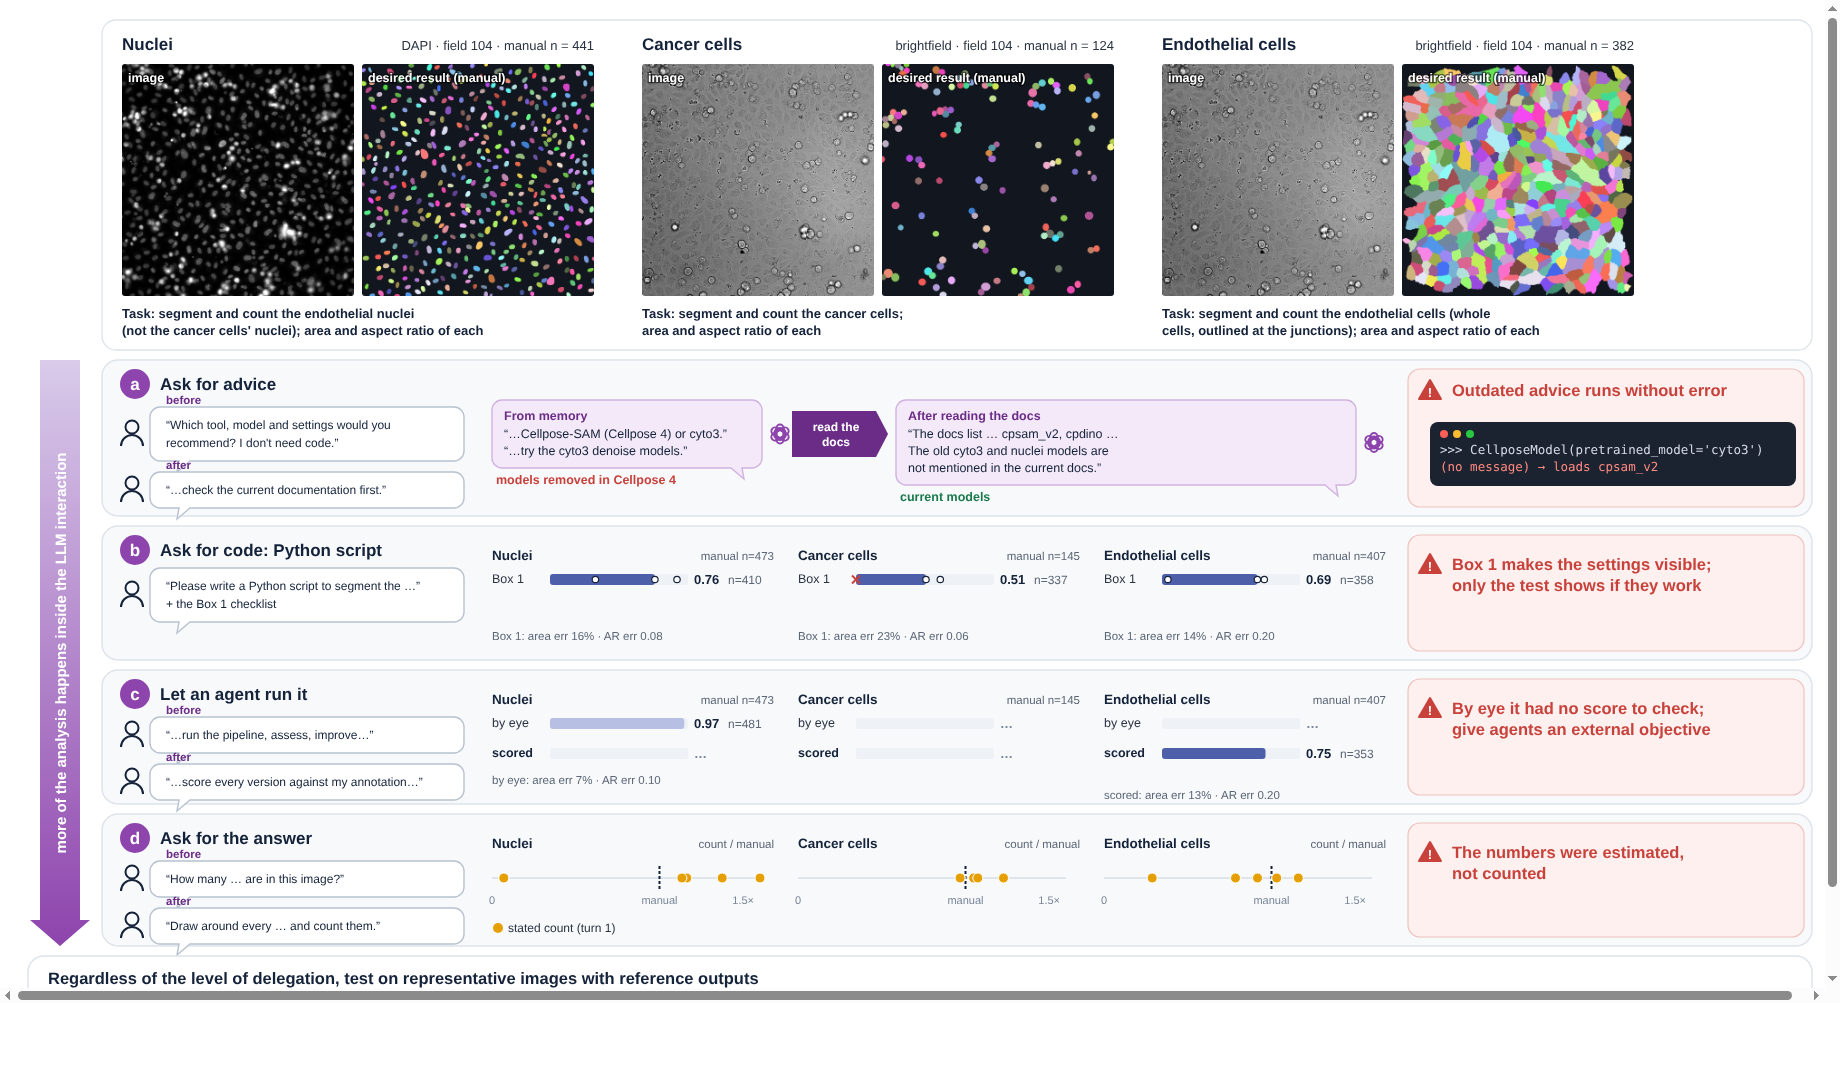
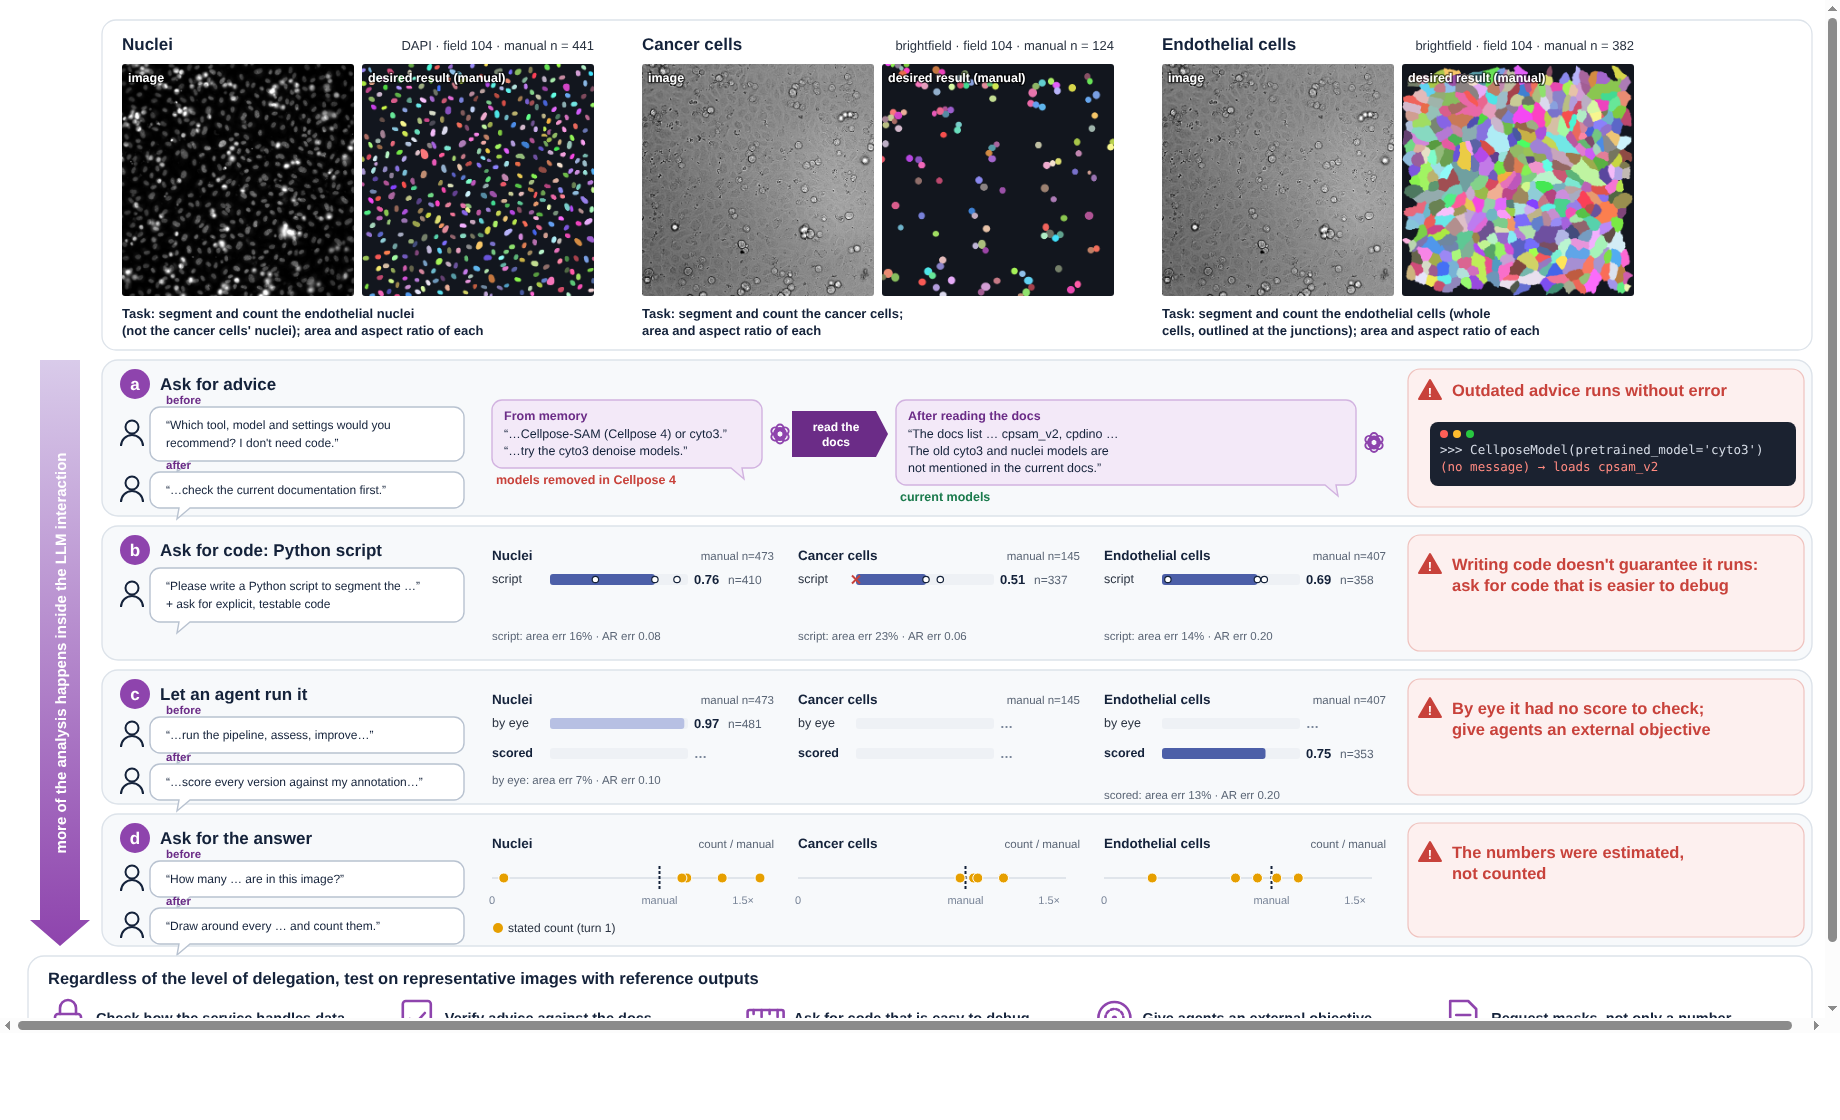
fig3: Box 1-only variant: neutral wording (script; ask for explicit, testable code; writing code does not guarantee it runs)
Claude-Session: https://claude.ai/code/session_01PJNT3JDnSo79DR4Hd7XwkY

diff --git a/fig3/figure_v2/code/make_fig3_v2.py b/fig3/figure_v2/code/make_fig3_v2.py
@@ -805,10 +805,11 @@ s, _ = terminal(CX_CAV + 14, ry[key] + 62, W_CAV - 16, [(">>> CellposeModel(pret
 
 # ================================================================ b1 / b2 / c / d
 key = "b"
-ask(key, [("", ["“Please write a Python script to segment the …”", "+ the Box 1 checklist"])] if BOX1_ONLY else
+ask(key, [("", ["“Please write a Python script to segment the …”", "+ ask for explicit, testable code"])] if BOX1_ONLY else
     [("before", ["“Please write a Python script to segment the …”"]), ("after", ["Box 1 prompt"])])
-add(panel(key, ry[key] + 34, "py", None if BOX1_ONLY else "generic", "Box 1"))
-add(cav(key, ["Box 1 makes the settings visible;", "only the test shows if they work"]))
+add(panel(key, ry[key] + 34, "py", None if BOX1_ONLY else "generic", "script" if BOX1_ONLY else "Box 1"))
+add(cav(key, ["Writing code doesn't guarantee it runs:", "ask for code that is easier to debug"]) if BOX1_ONLY else
+    cav(key, ["Box 1 makes the settings visible;", "only the test shows if they work"]))
 
 key = "c"
 ask(key, [("before", ["“…run the pipeline, assess, improve…”"]), ("after", ["“…score every version against my annotation…”"])])
@@ -851,7 +852,7 @@ KH = 92
 add(rrect(28, KY, 1784, KH, 16, "#ffffff", NN["stroke"], 1.4)
     + t(48, KY + 28, "Regardless of the level of delegation, test on representative images with reference outputs", 16.5, "bold", INK))
 KEEP = [("lock", "Check how the service handles data"), ("check", "Verify advice against the docs"),
-        ("ruler", "Ask it to expose parameters (Box 1)"), ("target", "Give agents an external objective"),
+        ("ruler", "Ask for code that is easy to debug" if BOX1_ONLY else "Ask it to expose parameters (Box 1)"), ("target", "Give agents an external objective"),
         ("file", "Request masks, not only a number")]
 KW = (1784 - 40) / 5
 
